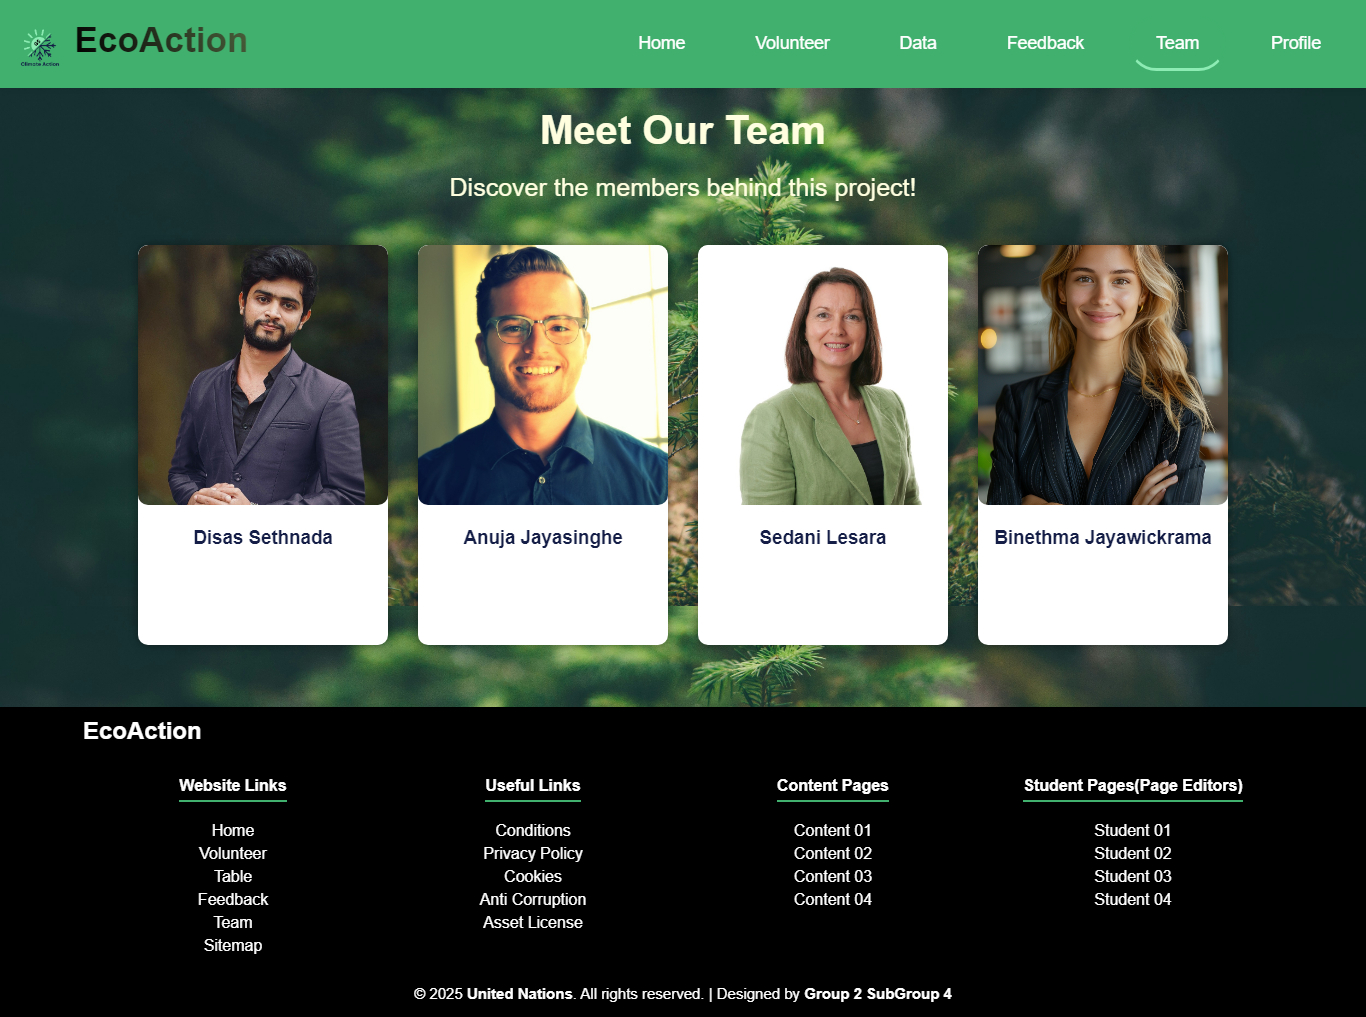
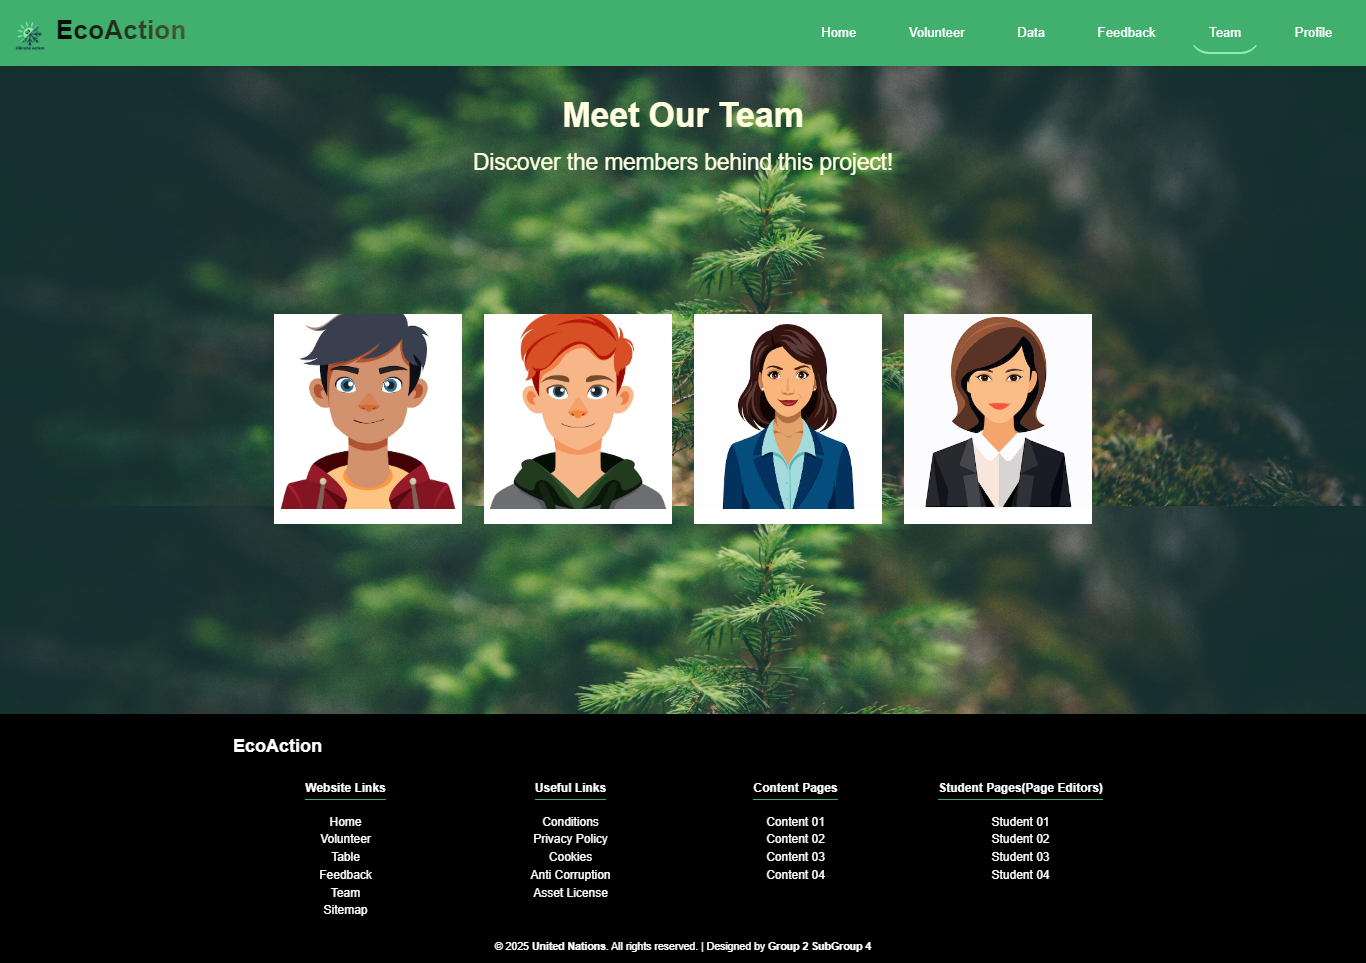
team and fixes

diff --git a/Student_3/team.html b/Student_3/team.html
@@ -4,11 +4,8 @@
     <meta charset="UTF-8">
     <meta name="viewport" content="width=device-width, initial-scale=1.0">
     <title>Team Page</title>
-    <link rel="icon" href="../images/favicon.ico" type="image/x-icon">
     <link rel="stylesheet" href="../css/style.css">
     <link rel="stylesheet" href="../css/team.css">
-
-
 </head>
 <body>
     <header>
@@ -18,7 +15,7 @@
                 <a href="../Student_2/home.html"> <h1>EcoAction</h1></a>
             </div>
             <ul>
-                <li><a href="../Student_2/home.html">Home</a></li>
+                <li><a href="../Student_2/home.html" >Home</a></li>
                 <li><a href="../student_1/volunteer.html">Volunteer</a></li>
                 <li><a href="../student_2/table.html">Data</a></li>
                 <li><a href="../student_3/feedback.html">Feedback</a></li>
@@ -28,11 +25,11 @@
         </nav>
     </header>
     <main>
-        <h2>Meet Our Team</h2>
+        <h2 id="title1">Meet Our Team</h2>
         <p class="subtitle">Discover the members behind this project!</p>
 
         <div class="team-container">
-            <div class="team-member" tabindex="0">
+            <a href="../Student_1/page_editor_ST1.html" class="team-member" tabindex="0">
                 <div class="image-box">
                     <img src="../images/team/team1.jpg" alt="Disas Sethnada" class="thumbnail">
                 </div>
@@ -40,65 +37,67 @@
                 <div class="details">
                     <h3>Disas Sethnada</h3>
                     <p><strong>Role:</strong> Student 1</p>
+                    <p><strong>Student ID:</strong> ST001</p>
                     <p><strong>Contributions:</strong></p>
-                    <p>
+                    <ul>
                         <li>Splash Screen</li>
                         <li>Volunteer</li>
-                    </p>
+                    </ul>
                 </div>
-            </div>
+            </a>
 
-            <div class="team-member" tabindex="0">
+            <a href="../Student_2/page_editor_ST2.html" class="team-member" tabindex="0">
                 <div class="image-box">
-                <img src="../images/team/team2.jpg" alt="Anuja Jayasinghe" class="thumbnail">
+                    <img src="../images/team/team2.jpg" alt="Anuja Jayasinghe" class="thumbnail">
                 </div>
                 
                 <div class="details">
-                <h3>Anuja Jayasinghe</h3>
+                    <h3>Anuja Jayasinghe</h3>
                     <p><strong>Role:</strong> Student 2</p>
+                    <p><strong>Student ID:</strong> ST002</p>
                     <p><strong>Contributions:</strong></p>
-                    <p>
+                    <ul>
                         <li>Home Page</li>
                         <li>Table</li>
-                    </p>
+                    </ul>
                 </div>
-            </div>
+            </a>
 
-            <div class="team-member" tabindex="0">
+            <a href="../Student_3/page_editor_ST3.html" class="team-member" tabindex="0">
                 <div class="image-box">
-                <img src="../images/team/team3.jpg" alt="Sedani Lesara" class="thumbnail">
+                    <img src="../images/team/team3.jpg" alt="Sedani Lesara" class="thumbnail">
                 </div>
 
                 <div class="details">
-                <h3>Sedani Lesara</h3>    
+                    <h3>Sedani Lesara</h3>    
                     <p><strong>Role:</strong> Student 3</p>
+                    <p><strong>Student ID:</strong> ST003</p>
                     <p><strong>Contributions:</strong></p>
-                    <p>
-                        <li> Feedback</li>
+                    <ul>
+                        <li>Feedback</li>
                         <li>Team</li>
-                    </p>
+                    </ul>
                 </div>
-            </div>
+            </a>
 
-            <div class="team-member" tabindex="0">
+            <a href="../Student_4/page_editor_ST4.html" class="team-member" tabindex="0">
                 <div class="image-box">
-                <img src="../images/team/team4.jpg" alt="Binethma Jayawickrama" class="thumbnail">
+                    <img src="../images/team/team4.jpg" alt="Binethma Jayawickrama" class="thumbnail">
                 </div>
 
                 <div class="details">
-                <h3>Binethma Jayawickrama</h3>   
-                <p><strong>Role:</strong> Student 4</p>
-                <p><strong>Contributions:</strong></p>
-                <p>
-                    <li>User Profile</li>
-                    <li>Sitemap</li>
-                </p>
+                    <h3>Binethma Jayawickrama</h3>   
+                    <p><strong>Role:</strong> Student 4</p>
+                    <p><strong>Student ID:</strong> ST004</p>
+                    <p><strong>Contributions:</strong></p>
+                    <ul>
+                        <li>User Profile</li>
+                        <li>Sitemap</li>
+                    </ul>
                 </div>  
-            </div>
+            </a>
         </div>
     </main>
-
-    <a href="#" class="go-to-top" aria-label="Go to top"></a>
 
     <footer class="footer">
         <div class="footer-container">
@@ -153,6 +152,5 @@
             <p>&copy; 2025 <b>United Nations</b>. All rights reserved. | Designed by <b>Group 2 SubGroup 4</b></p>
         </div>
     </footer>
-    
 </body>
 </html>

diff --git a/Student_3/page_editor_ST3.html b/Student_3/page_editor_ST3.html
@@ -54,7 +54,7 @@
                     <li>Implements responsive design best practices.</li>
                     <li>Ensures consistent behavior across browsers.</li>
                 </ul>
-                <p><a href="validation_ST0.html#splashVal">Validation Page</a></p>
+                <p><a href="../Student_3/validation_ST3.html#feedbackVal">Validation Page</a></p>
                 <h3>Link to the page</h3>
                 <p><a href="../Student_3/feedback.html">Feedback Page</a></p>
             </section>
@@ -65,10 +65,10 @@
                 <h3>Accessibility</h3>
                 <p>The Team Page ensures accessibility by providing alt text for images, using semantic HTML for structure, and ensuring keyboard navigability.</p>
                 <h3>Link to the validation page</h3>
-                <p><a href="validation_ST0.html#teamVal">Validation Page</a></p>
+                <p><a href="../Student_3/validation_ST3.html#teamVal">Validation Page</a></p>
                 <h3>Link to the page</h3>
                 <p><a href="../Student_3/team.html">Team Page</a></p>
-                <p><a href="../Student_3/content_ST3.html">Content Page</a></p>
+
             </section>  
             <section>
                 <h2 id="content">Content Page</h2>
@@ -77,9 +77,9 @@
                 <h3>Accessibility</h3>
                 <p>ARIA roles and labels were used to improve navigation and usability for assistive technologies.</p>
                 <h3>Link to the validation page</h3>
-                <p><a href="validation_ST0.html#contentVal">Validation Page</a></p>
+                <p><a href="../Student_3/validation_ST3.html#contentVal">Validation Page</a></p>
                 <h3>Link to the page</h3>
-                <p><a href="../Student_2/content_ST2.html">Content Page</a></p>
+                <p><a href="../Student_3/content_ST3.html">Content Page</a></p>
             </section>
             <section>
                 <h2 id="challenge">Challenges and Lessons Learned</h2>

diff --git a/css/team.css b/css/team.css
@@ -31,7 +31,7 @@
 }
 
 .image-box{
-    width: 80%;
+    width: 100%;
     height: 260px;
     overflow: hidden;
 }
@@ -46,7 +46,7 @@
 
 .thumbnail:hover{
     opacity: 0.8;
-    border: 2px solid #ffffff;
+    border: 2px solid #41b06e;
 }
 
 .details{
@@ -83,32 +83,20 @@ main{
     flex-grow: 1;
 }
 
-footer{
-    position: relative;
-    bottom: 0;
-    width: 100%;
-    background-color: black;
-    color: white;
-    text-align: center;
-    padding: 15px 0;
-}
 
-h2{
+
+#title1{
     margin-top: 20px;
     margin-bottom: 20px;
-    color: rgb(255, 255, 255);
+    color: lightyellow;
     font-size: 45px;
     font-family: sans-serif;
     }
 
-p{
-    font-size: 16px;
-    font-family: sans-serif;
-    color: rgb(18, 52, 18);
-}
+
 
 .subtitle{
-    color: rgb(255, 255, 255);
+    color: lightyellow;
     font-size: 30px;
     margin-bottom: 0;
 }
